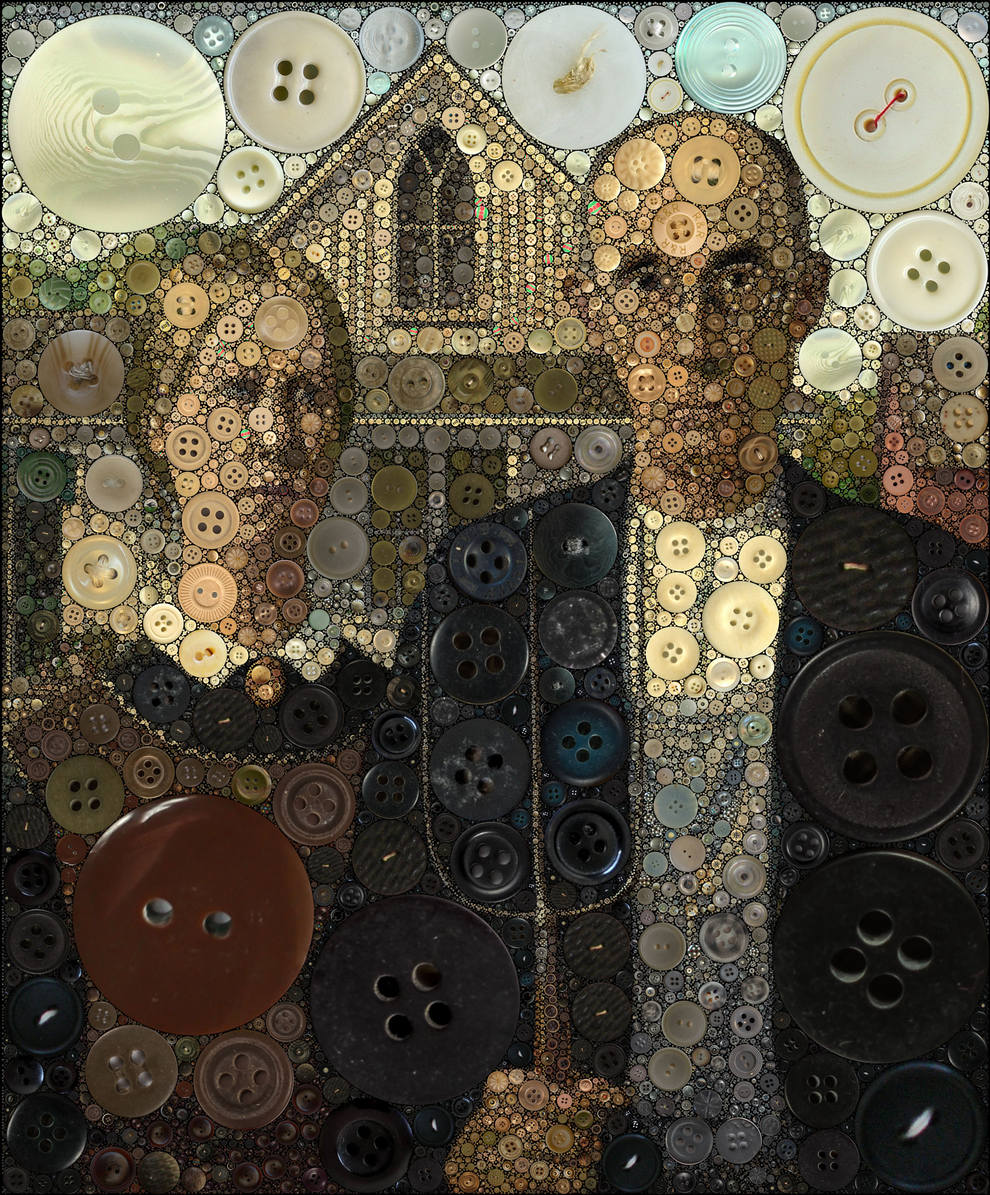
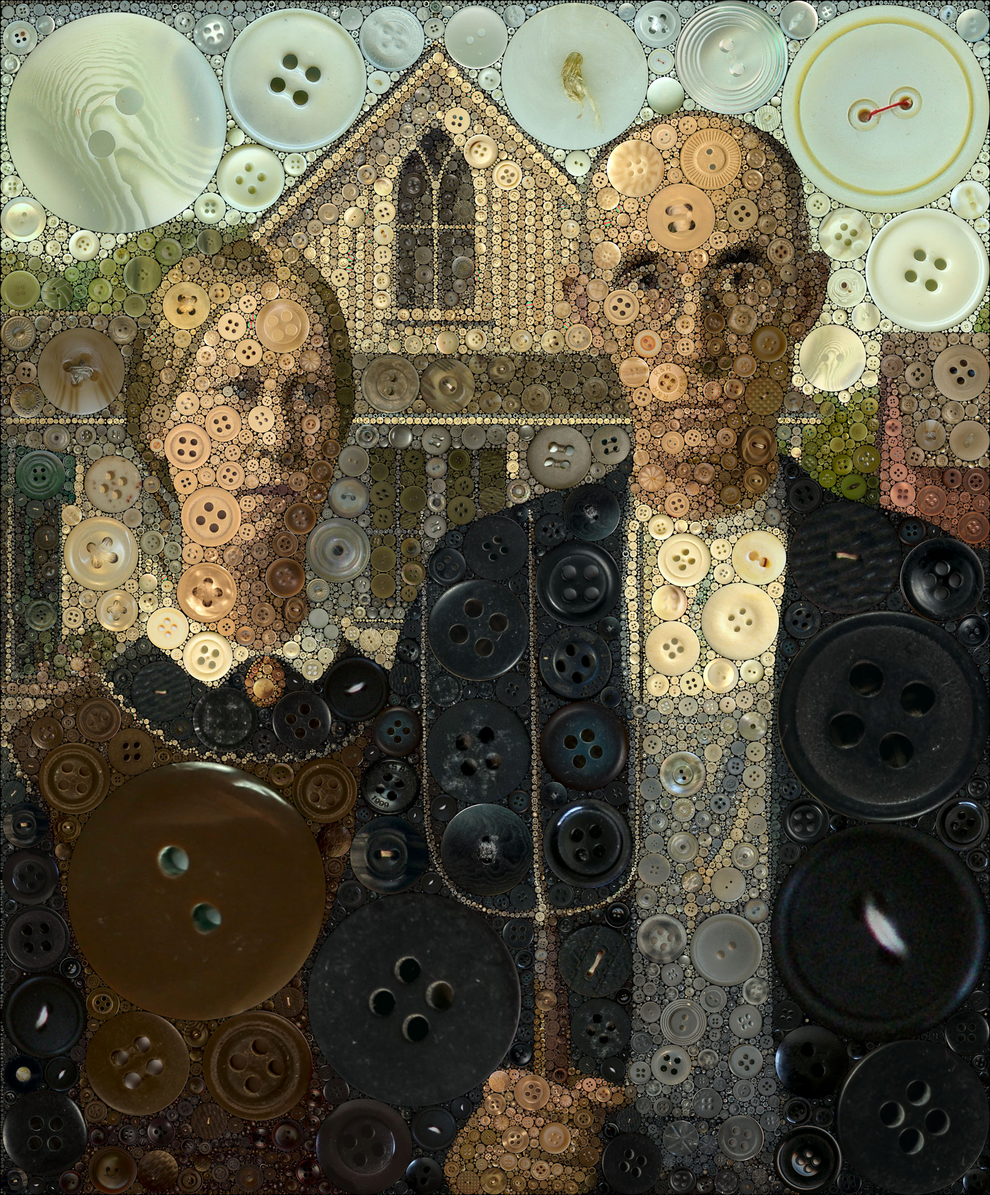
Add object color correction and improve distribution

diff --git a/source/findMatchingButtons.m b/source/findMatchingButtons.m
@@ -1,6 +1,6 @@
 % Finds num_buttons of the most similar buttons.
 
-function filenames = findMatchingButtons(circle, num_buttons, similarity_threshold)
+function [filenames, mean_colors_lab] = findMatchingButtons(circle, num_buttons, similarity_threshold)
     persistent buttons;
     
     if isempty(buttons)
@@ -9,9 +9,9 @@ function filenames = findMatchingButtons(circle, num_buttons, similarity_thresho
         if isfile('..\buttons\skip.json')
             skip = jsondecode(fileread('..\buttons\skip.json'));
             skip_filenames = string(skip.filenames)';
-            filenames = string({buttons.data.filename});
+            buttons_filenames = string({buttons.data.filename});
             
-            [~,remove_idx,~] = intersect(filenames, skip_filenames);
+            [~,remove_idx,~] = intersect(buttons_filenames, skip_filenames);
             buttons.data(remove_idx) = [];
         end
     end
@@ -21,7 +21,7 @@ function filenames = findMatchingButtons(circle, num_buttons, similarity_thresho
     
     for i = 1:length(buttons.data)
         
-        if circle.radius >= 8
+        if circle.radius >= 16
             similarity = dominantColorsSimilarity(circle.dominant_colors, buttons.data(i).dominant_colors, 30);
         else
             similarity = meanColorSimilarity(circle.mean_color_lab, buttons.data(i).mean_color_lab);
@@ -43,8 +43,10 @@ function filenames = findMatchingButtons(circle, num_buttons, similarity_thresho
         indices(max_similarities(1) > (max_similarities + similarity_threshold)) = [];
         
         filenames = string({buttons.data(indices).filename});
+        mean_colors_lab = reshape([buttons.data(indices).mean_color_lab], 3, [])';
     else
         filenames = '';
+        mean_colors_lab = [];
     end
 end
 

diff --git a/source/test.m b/source/test.m
@@ -1,7 +1,7 @@
-orig_image = imread("..\input_images\piqsels.com-id-feidg_proc.png");
+orig_image = imread("..\input_images\Grant_Wood_-_American_Gothic_-_Google_Art_Project_proc_4096.png");
 orig_image = im2single(orig_image);
-%orig_image = imresize(orig_image, 1/2);
-image = smoothColor(orig_image, 1);
+%orig_image = imresize(orig_image, 1/8);
+image = smoothColor(orig_image, 0.25);
 
 [height, width, ~] = size(image); 
 
@@ -23,15 +23,12 @@ lab_image = rgb2lab(image);
 %num_colors = 8;
 %min_distance = 1;
 
-num_colors = 4;
-min_distance = 1;
+num_colors = 8;
+min_distance = 4;
 
 [L, centers] = imsegkmeans(image, num_colors);
 
 L = smoothLabels(L, floor(min_distance));
-
-L(L==2)=0;
-mm=L==0;
 
 %min_distance = 1.1;
 
@@ -63,9 +60,6 @@ for i = 1:(num_colors + 1)
         distance = bwdist(~(mask & ~bwmorph(mask,'remove')));
 
         [max_distance, ~] = max(distance(:));
-        
-        %[row, col] = ind2sub(size(mask), idx);
-        %centroid = [col, row];
         
         max_region = bwareafilt(distance >= max_distance - 1e-4, 1);
         [row, col] = ind2sub(size(mask), find(max_region));
@@ -104,11 +98,10 @@ disp(strcat("Number of circles: ", num2str(length(circles))));
 % imshow(remaining)
 
 %remaining_color = mean(reshape(orig_image(~repmat(remaining, 1, 1, 3)), [], 3));
-%base_image = zeros(size(orig_image));
-base_image = repmat(im2double(mm),1,1,3);
+base_image = zeros(size(orig_image));
 
 close(f)
-result = createButtonMosaic(circles, base_image, 4, 4);
+result = createButtonMosaic(circles, base_image, 1, 4);
 
 figure
 imshow(result)

diff --git a/source/createButtonMosaic.m b/source/createButtonMosaic.m
@@ -21,13 +21,15 @@ function result = createButtonMosaic(circles, result, scale, AA)
     f = waitbar(0, 'Finding and compositing matching objects');
     
     for i = 1:length(circles)
-        button_filenames = findMatchingButtons(circles(i), 20, 5);
+        [button_filenames, mean_colors_lab] = findMatchingButtons(circles(i), 20, 5);
         
         button_filename = button_filenames(1);
+        mean_color_lab = mean_colors_lab(1, :);
         [~,best_idx] = setdiff(button_filenames, previous_filenames, 'stable');
         
         if ~isempty(best_idx)
             button_filename = button_filenames(best_idx(1));
+            mean_color_lab = mean_colors_lab(best_idx(1), :);
         end
         
         previous_filenames(current_idx) = button_filename;
@@ -59,6 +61,9 @@ function result = createButtonMosaic(circles, result, scale, AA)
         
         button.image = imresize(button.image, dims, 'bicubic');
         button.alpha = imresize(button.alpha, dims, 'bicubic');
+        
+        Lab_diff = circles(i).mean_color_lab - mean_color_lab; 
+        button.image = lab2rgb(rgb2lab(button.image) + reshape(Lab_diff, 1, 1, 3));
         
         region = applyAlpha(button.image, button.alpha, region);
         

diff --git a/source/kDominantColors.m b/source/kDominantColors.m
@@ -9,8 +9,9 @@ function result = kDominantColors(colors, k, max_colors, replicates, should_plot
     num_colors = size(colors, 1);
     
     if num_colors > max_colors
-        step_size = round(num_colors/max_colors);
-        colors = colors(1:step_size:num_colors, :);
+        colors = reshape(colors, [], 1, 3);
+        colors = imresize(colors, [max_colors, 1], 'bilinear');
+        colors = reshape(colors, [], 3);
     end
     
     % If there are less than k unique colors, then k-means will not work.

diff --git a/source/smoothLabels.m b/source/smoothLabels.m
@@ -22,8 +22,8 @@ function L = smoothLabels(L, min_distance)
         %d = 10;
         %radius = 2;
         
-        d = 8;
-        radius = 1;
+        d = 32;
+        radius = 8;
         
         mask = bwareaopen(~mask,d*d);
         mask = bwareaopen(~mask,d*d);
